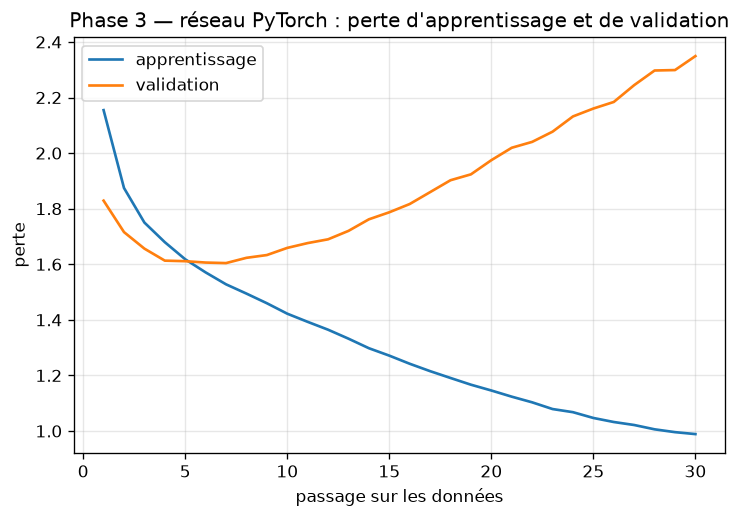
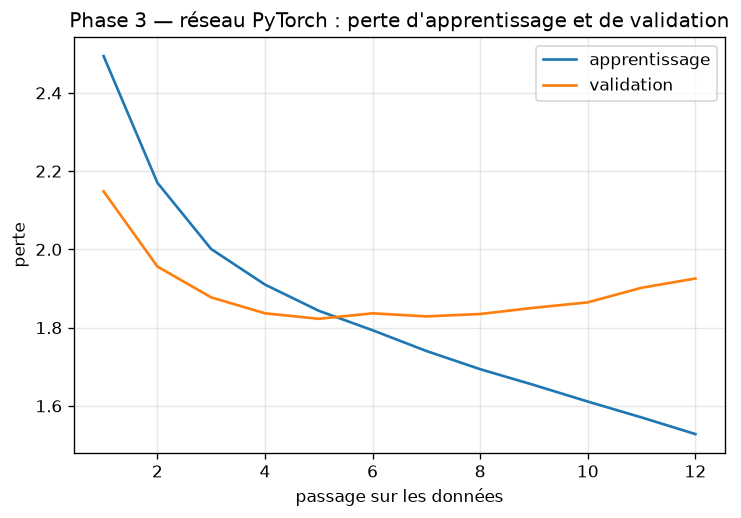
phase 3, réglage 5 : pondérer les classes par l'inverse de la racine
F1 moyen 0,480 → 0,496, mais taux 0,544 → 0,532. Réglage mesuré seul.

« light » porte 24 % des relevés, les dernières formes retenues moins de 1 %.
Sans pondération le réseau a intérêt à ignorer les rares : le taux global ne
le sanctionne pas, le F1 moyen par classe si. La pondération va de 0,33 pour
light à 2,32 pour cone.

Le compte reste à régler. Le réseau bat maintenant le linéaire sur le F1
(0,496 contre 0,494) mais lui repasse derrière sur le taux (0,532 contre
0,537). Les deux résumés du score se contredisent, ce qui n'est pas une
victoire — c'est le sujet de la phase 8, rencontré cinq phases trop tôt.

diff --git a/bureau/actes/acte2_detecteur.py b/bureau/actes/acte2_detecteur.py
@@ -238,11 +238,24 @@ def phase03(dossier, iterations=12):
     lots_apprentissage = jeu.lots(*parties["apprentissage"], taille=64,
                                   graine=dossier.graine)
     lots_validation = jeu.lots(*parties["validation"], taille=256, melanger=False)
+    # Les classes sont très déséquilibrées : « light » porte 24 % des relevés, les
+    # dernières formes retenues moins de 1 %. Sans pondération, le réseau a intérêt
+    # à ignorer les rares, ce que le taux global ne sanctionne pas mais que le F1
+    # moyen par classe voit tout de suite. La racine adoucit la correction : la
+    # pondération pleine (1/effectif) retourne complètement le problème et sacrifie
+    # les classes fréquentes.
+    effectifs = torch.bincount(etiquettes_apprentissage).float()
+    poids = effectifs.rsqrt()
+    poids = poids / poids.mean()
+    print(f"    pondération des classes : de {poids.min():.2f} ({dossier.classes[int(poids.argmin())]})"
+          f" à {poids.max():.2f} ({dossier.classes[int(poids.argmax())]})")
+
     with Chrono("réseau PyTorch") as chrono:
         historique = entrainement.entrainer(
             modele, lots_apprentissage, lots_validation,
             iterations=iterations, pas=3e-3, releve_tous_les=1,
             garder_le_meilleur=True,
+            perte=torch.nn.CrossEntropyLoss(weight=poids),
         )
     predits, vrais = entrainement.predire(
         modele, jeu.lots(*parties["test"], taille=256, melanger=False)
